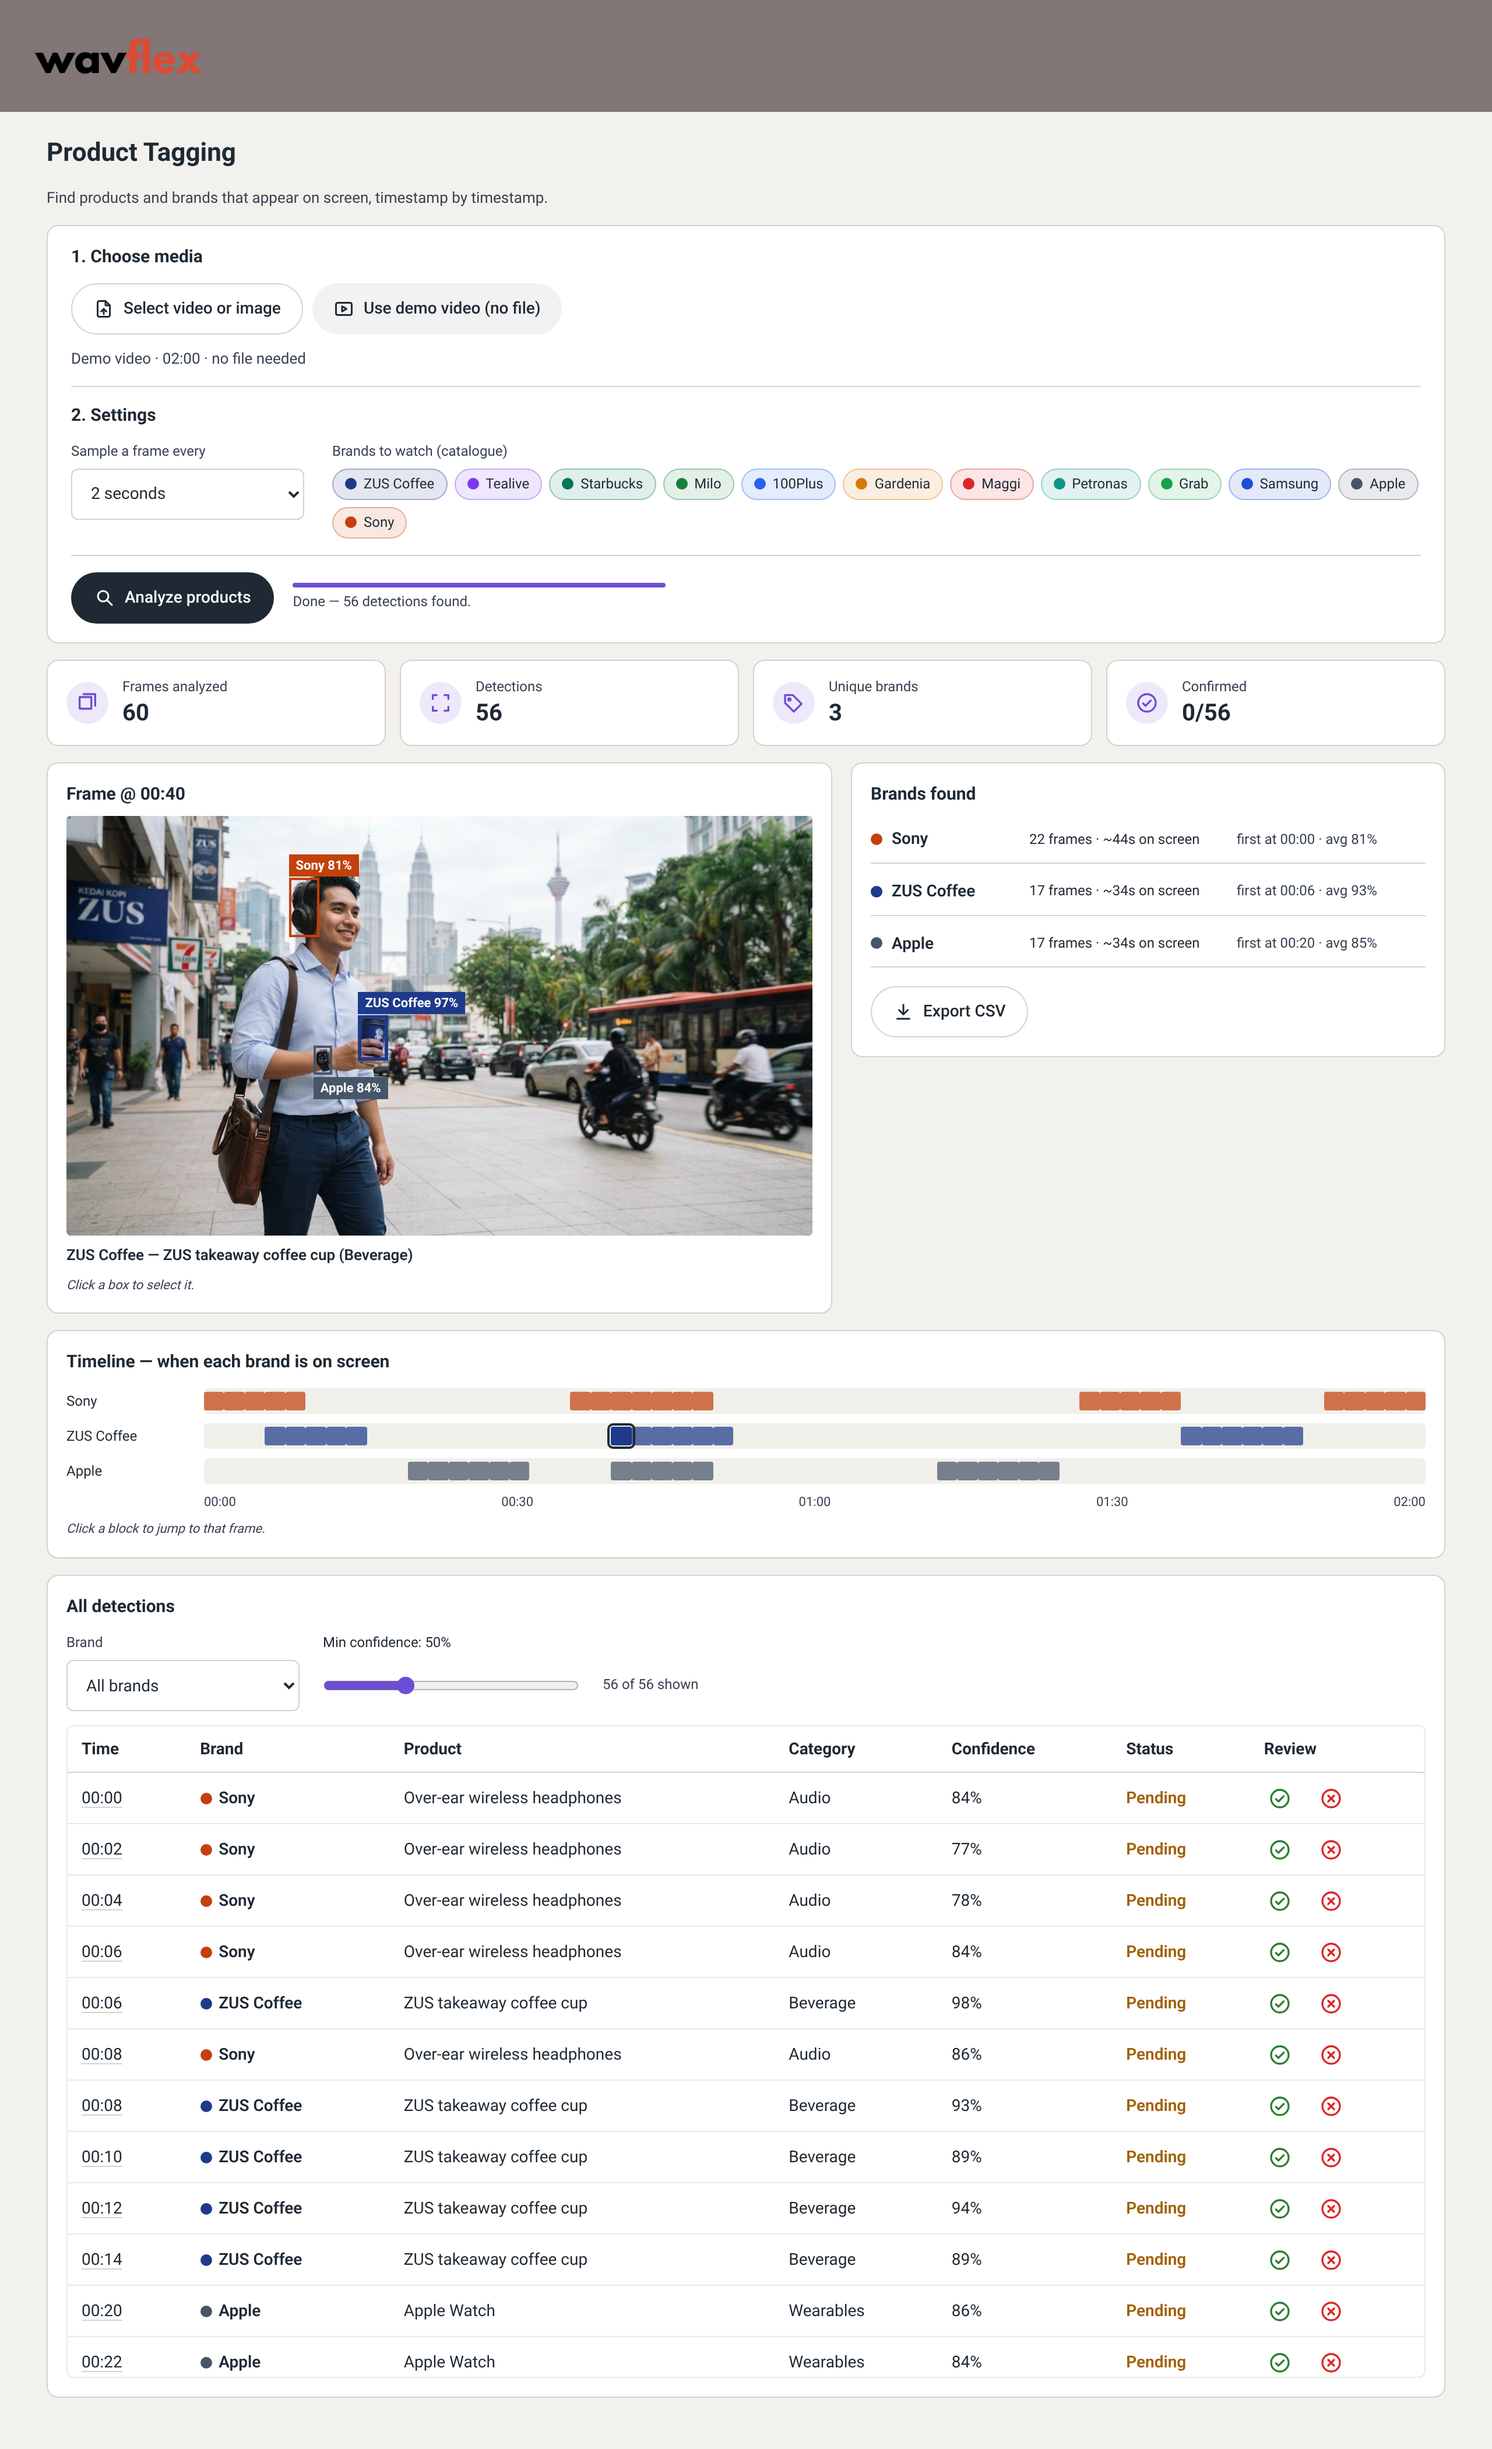
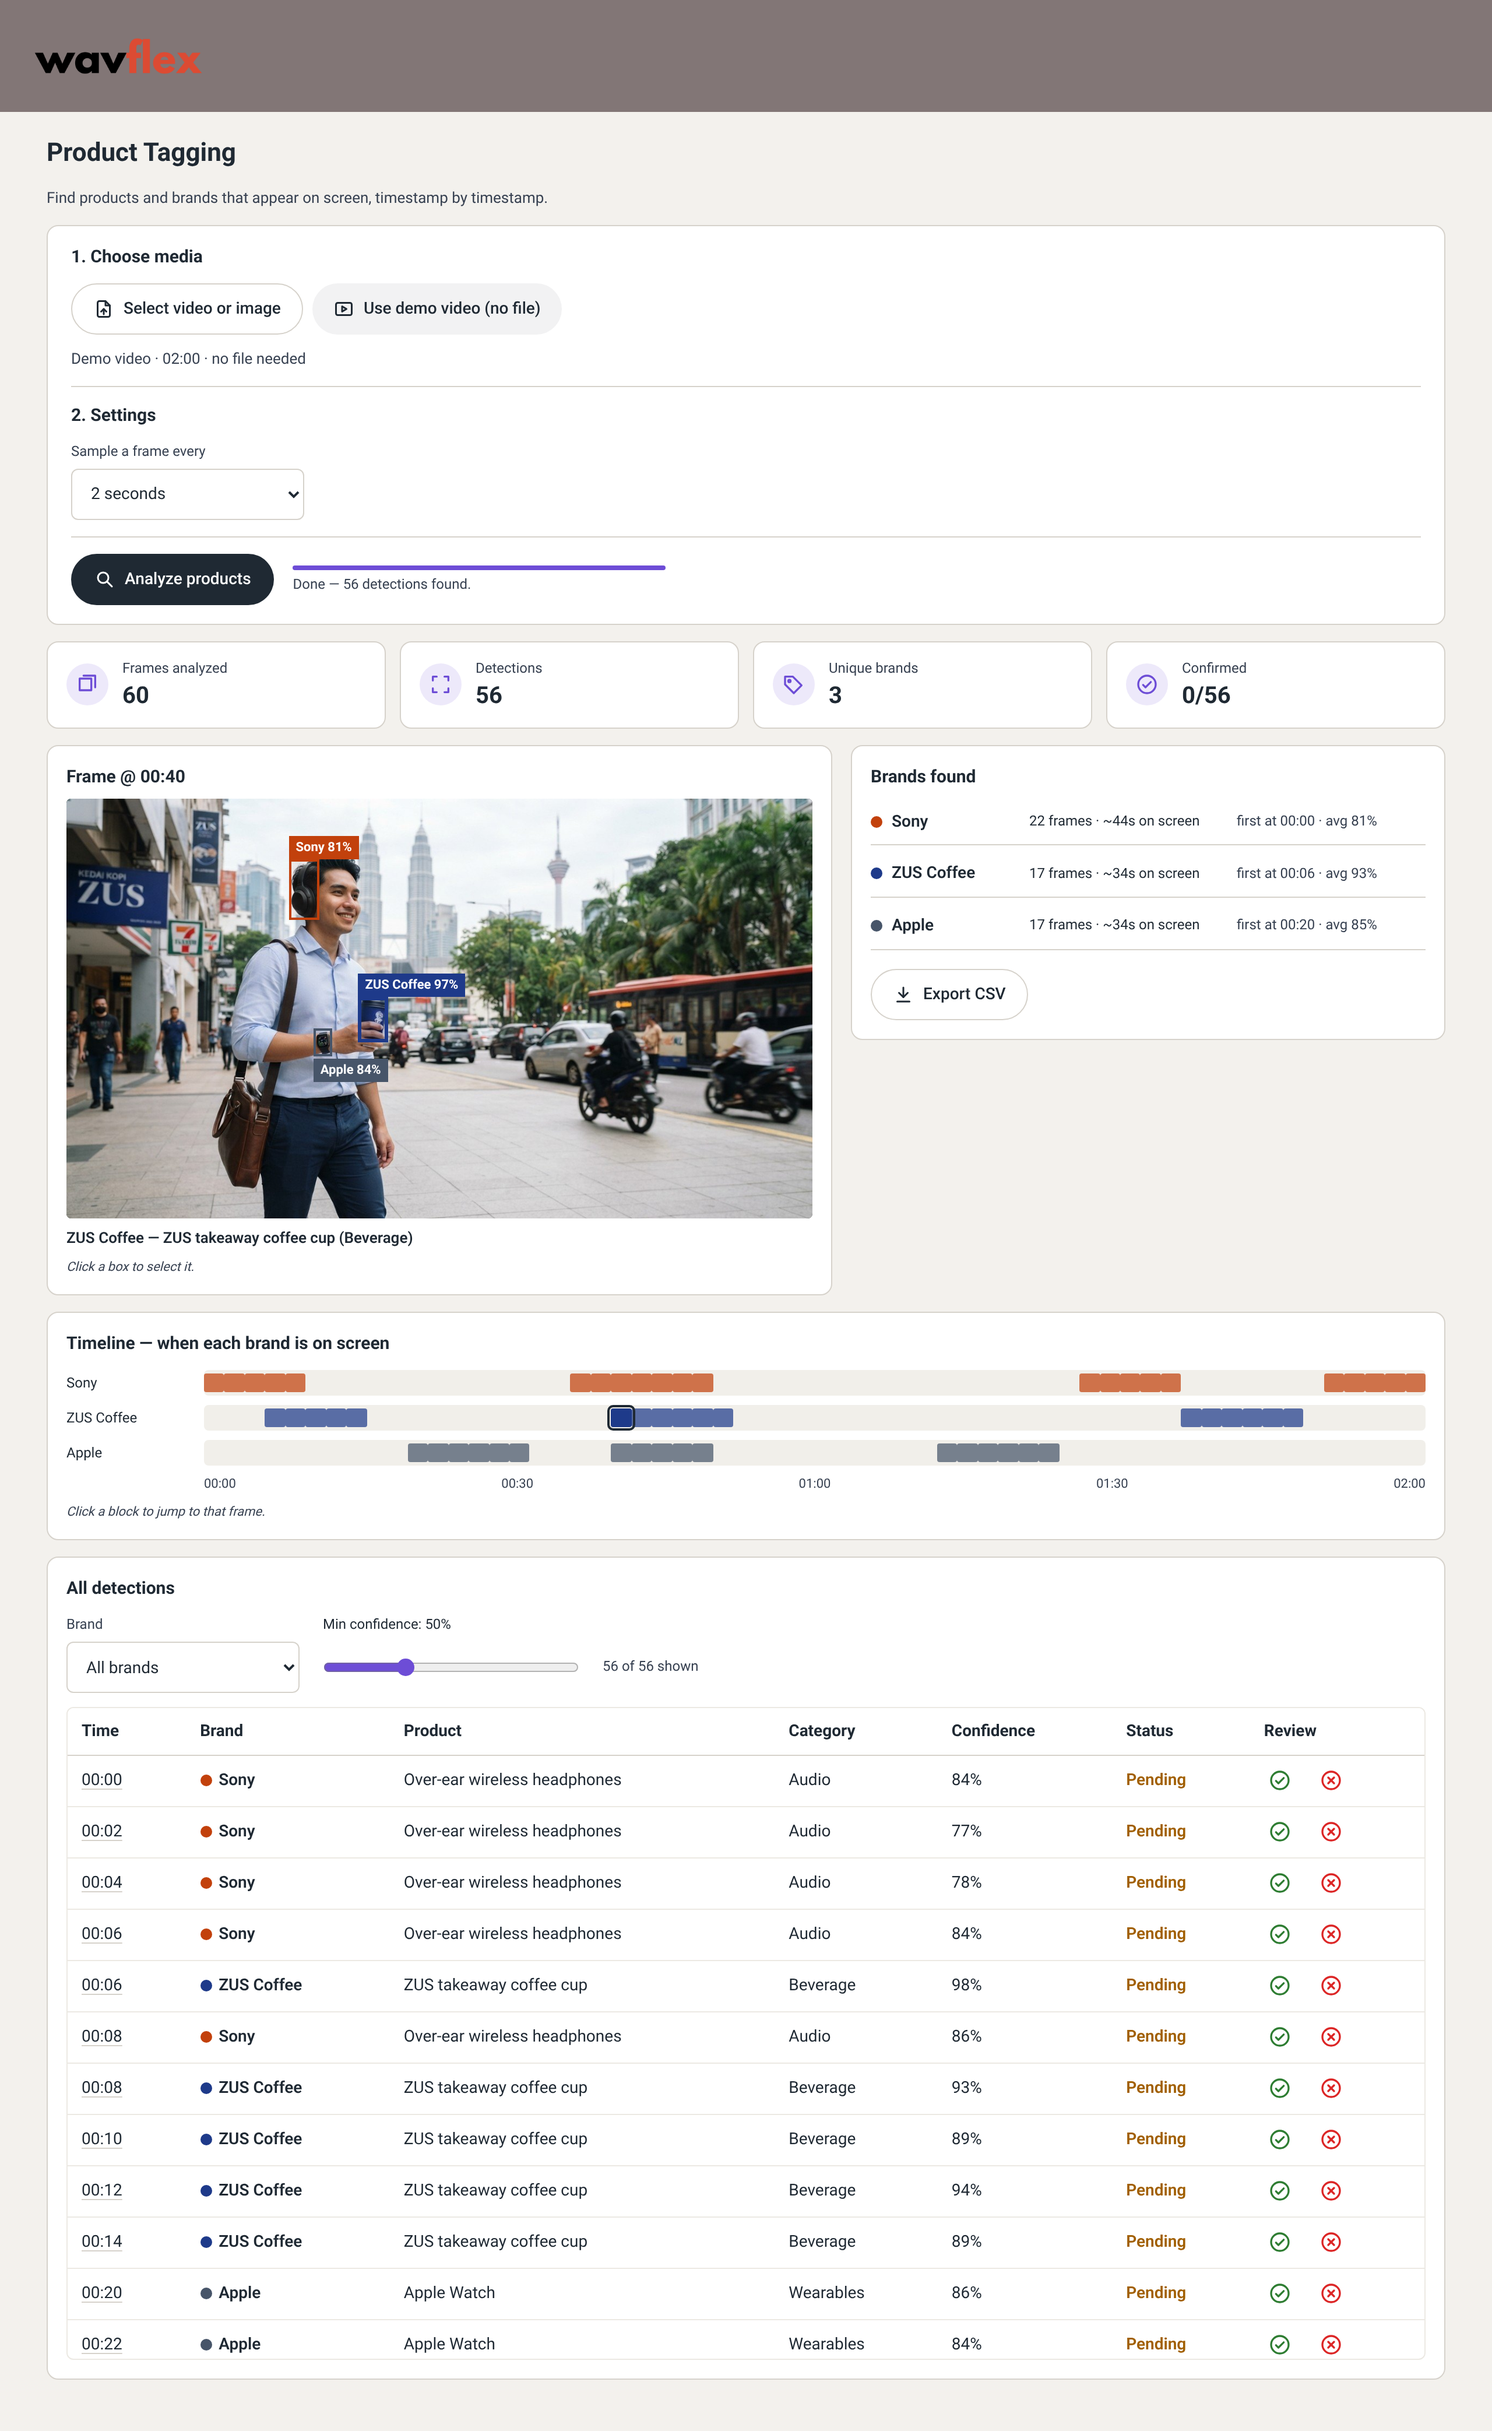
Hide the brand catalogue chips from the settings card
Claude-Session: https://claude.ai/code/session_01BN2paLzvZ97jQQasLGfUcp

diff --git a/prototype/product-tagging.html b/prototype/product-tagging.html
@@ -104,10 +104,6 @@
           <option value="10">10 seconds</option>
         </select>
       </label>
-      <div style="display:flex; flex-direction:column; gap:6px; flex:1 1 360px; min-width:0">
-        <span class="small muted">Brands to watch (catalogue)</span>
-        <div class="row" style="gap:6px" id="catalogue"></div>
-      </div>
     </div>
     <hr>
     <div class="row" style="gap:16px">
@@ -412,7 +408,6 @@ function exportCsv() {
 
 function toast(msg) { const t = $('toast'); t.textContent = msg; t.classList.add('show'); clearTimeout(toast.h); toast.h = setTimeout(() => t.classList.remove('show'), 1800); }
 
-renderCatalogue();
 render();
 </script>
 </body>
